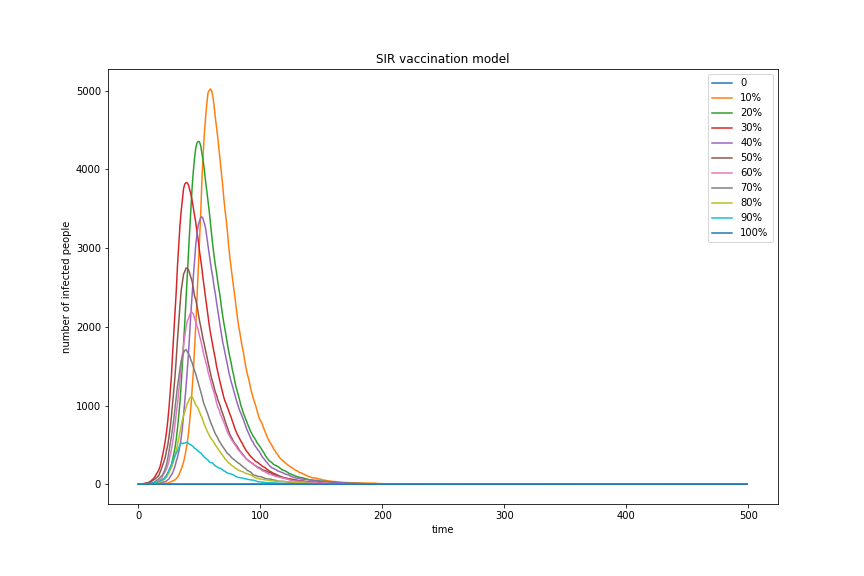
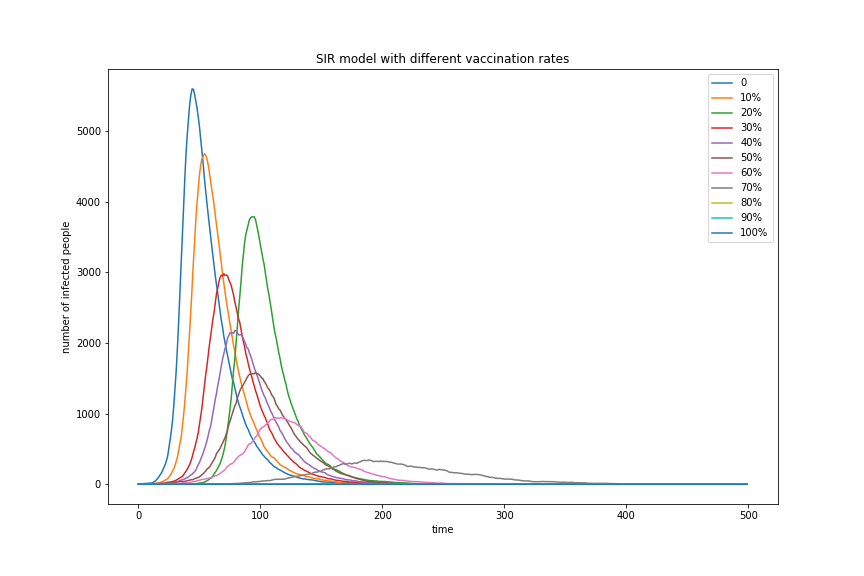
corrected mistake

diff --git a/Practical12/SIR_vaccination.py b/Practical12/SIR_vaccination.py
@@ -8,18 +8,17 @@ Created on Mon May  6 16:15:04 2019
 import numpy as np
 import matplotlib.pyplot as plt
 import pandas as pd
-b = 0.3; y = 0.05; T = 500
+b = 0.3; y = 0.05; T = 500 # b for beta, y for gamma
 a = []
 def chance(P,n):
     c = list(np.random.choice(range(2),n,p=[1-P,P]))
-    return c.count(1)
-for V in range(11):
-    S = 9999
-    S = int(S*(10-V)/10); I = 1; R = 0; N = S + I + R
-    d = [I]
-    for t in range (1,T):
-        n = chance(y,I)
-        m = chance(b*I/N,S)
+    return c.count(1) #return the number of transformed people out of n people with probability P
+for V in range(11): #loop through 11 different vaccination rates
+    S = int(9999*(10-V)/10); I = 1; R = 0; N = 10000 #vaccinated people excluded in S
+    d = [I] #Day 0
+    for t in range (1,T+1): #loop through T Days
+        n = chance(y,I) #people infected that day
+        m = chance(b*I/N,S) #people recovered that day
         R += n
         I += m - n
         S -= m
@@ -27,12 +26,13 @@ for V in range(11):
     a.append(d)
 
 a = pd.DataFrame(a)
-a = a.T
+a = a.T #rotation
 a.columns = ['0','1','2','3','4','5','6','7','8','9','10']
-a['t'] = np.linspace(0,T-1,T)
+a['t'] = np.linspace(0,T,T+1)
 a.plot(x='t',y=['0','1','2','3','4','5','6','7','8','9','10'],label=['0','10%','20%','30%','40%','50%','60%','70%','80%','90%','100%'],figsize =(12,8))
-plt.title('SIR vaccination model')
+plt.title('SIR model with different vaccination rates')
 plt.ylabel('number of infected people')
 plt.xlabel('time')
 plt.legend(loc='upper right')
+plt.savefig ('SIR vaccination model' ,type='png')
 plt.show()

diff --git a/Practical12/Spatial_SIR.py b/Practical12/Spatial_SIR.py
@@ -7,16 +7,16 @@ Created on Wed May  8 15:50:58 2019
 
 import numpy as np
 import matplotlib.pyplot as plt
-population = np.zeros((100,100)) #100x100 suscepticle population
-b = 0.3; g = 0.05; T = 100 
+population = np.zeros((100,100)) #100x100 suscepticle population (=0)
+b = 0.3; g = 0.05; T = 100 # b for beta, g for gamma
 outbreak = np.random.choice(range(100),2) #select random person
 population[outbreak[0],outbreak[1]] = 1 #random person infected (=1)
-for t in range(T+1): #for T days (T+1th loop for plotting the Tth heat map)
+for t in range(T+1): #loop through T days
     infectedIndex = np.where(population==1) #locate the infected
     if t in [0,10,50,100]: #plot heat map after 0,10,50,100 recursions
-        plt.figure(figsize =(6 ,4) , dpi=150) 
+        plt.figure(figsize =(6 ,4) , dpi=150)
         plt.imshow(population, cmap='viridis', interpolation='nearest')
-        #plt.savefig ('Spatial_SIR%d'%t,type='png')
+        plt.savefig ('Spatial_SIR%d'%t,type='png')
     for i in range(len(infectedIndex[0])): #for all infectd points
         x = infectedIndex[0][i]
         y = infectedIndex[1][i] #obtain x,y coordinates

diff --git a/Practical12/SIR.py b/Practical12/SIR.py
@@ -9,15 +9,15 @@ import numpy as np
 import matplotlib.pyplot as plt
 import pandas as pd
 S = 9999; I = 1; R = 0; N = S + I + R; T = 500
-b = 0.3; y = 0.05
-a = [[9999,1,0,0]]
+b = 0.3; y = 0.05 #b for beta, y for gamma
+a = [[9999,1,0,0]] #Day 0
 def chance(P,n):
     c = list(np.random.choice(range(2),n,p=[1-P,P]))
-    return c.count(1)
+    return c.count(1) #return the number of transformed people out of n people with probability P
 
-for t in range (1,T):
-    n = chance(y,I)
-    m = chance(b*I/N,S)
+for t in range (1,T+1): #loop through T days
+    n = chance(y,I)  #people infected that day
+    m = chance(b*I/N,S)  #people recovered that day
     R += n
     I += m - n
     S -= m
@@ -26,8 +26,9 @@ for t in range (1,T):
 a = pd.DataFrame(a)
 a.columns = ['S','I','R','t']
 a.plot(x='t',y=['S','I','R'],label=['Suscepticle','Infected','Recovered'],figsize =(12,8))
-plt.title('SIR vaccination model')
+plt.title('SIR model')
 plt.ylabel('number of people')
 plt.xlabel('time')
 plt.legend(loc='upper right')
+plt.savefig ('SIR' ,type='png')
 plt.show()
